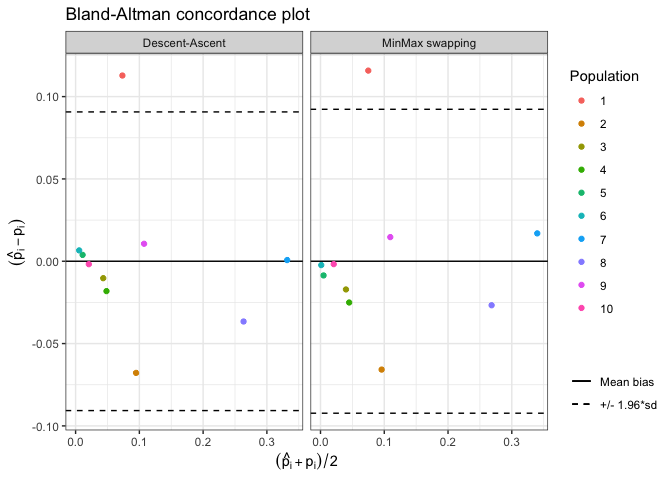
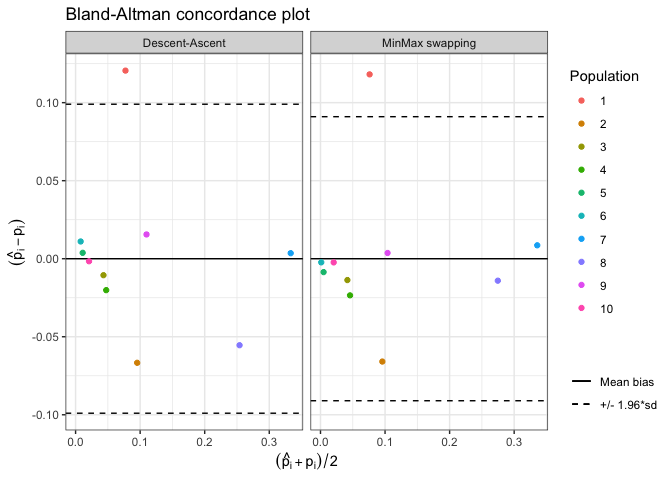
updated README

diff --git a/README.md b/README.md
@@ -49,8 +49,6 @@ This is a basic example of `CytOpt` usage:
 
 ``` r
 library(CytOpT)
-#> Warning: remplacement de l'importation précédente 'data.table::melt' par
-#> 'reshape2::melt' lors du chargement de 'CytOpT'
 # Load source Data
 X_source <- read.csv('tests/ressources/W2_1_values.csv')
 Lab_source <- read.csv('tests/ressources/W2_1_clust.csv')[, 2]
@@ -69,23 +67,23 @@ for (k in 1:10) theta_true[k] <- sum(Lab_target == k)/length(Lab_target)
 ### Proportion estimations using *optimal transport* and *minmax swapping* procedures
 
 ``` r
-# Run CytOpt and compare two optimisation methods
+# Run CytOpt and compare the two optimization methods
 res <- CytOpT(X_source, X_target, Lab_source, theta_true=theta_true, method='both')
 ```
 
 ``` r
 res$proportions
 #>    Gold_standard Descent_ascent       MinMax
-#> 1    0.017004001     0.12981203 1.327996e-01
-#> 2    0.128736173     0.06091913 6.293799e-02
-#> 3    0.048481996     0.03819947 3.135668e-02
-#> 4    0.057484114     0.03934746 3.242997e-02
-#> 5    0.009090374     0.01294758 4.718968e-04
-#> 6    0.002324076     0.00891806 8.615075e-10
-#> 7    0.331460344     0.33218770 3.483905e-01
-#> 8    0.281713344     0.24511808 2.549886e-01
-#> 9    0.102082843     0.11269994 1.167505e-01
-#> 10   0.021622735     0.01985055 1.987425e-02
+#> 1    0.017004001     0.13754831 1.351316e-01
+#> 2    0.128736173     0.06204221 6.284150e-02
+#> 3    0.048481996     0.03792164 3.479990e-02
+#> 4    0.057484114     0.03734802 3.401874e-02
+#> 5    0.009090374     0.01286862 5.067956e-04
+#> 6    0.002324076     0.01337215 4.315657e-09
+#> 7    0.331460344     0.33500125 3.400583e-01
+#> 8    0.281713344     0.22628051 2.676309e-01
+#> 9    0.102082843     0.11762942 1.057570e-01
+#> 10   0.021622735     0.01998788 1.925525e-02
 ```
 
 ``` r
